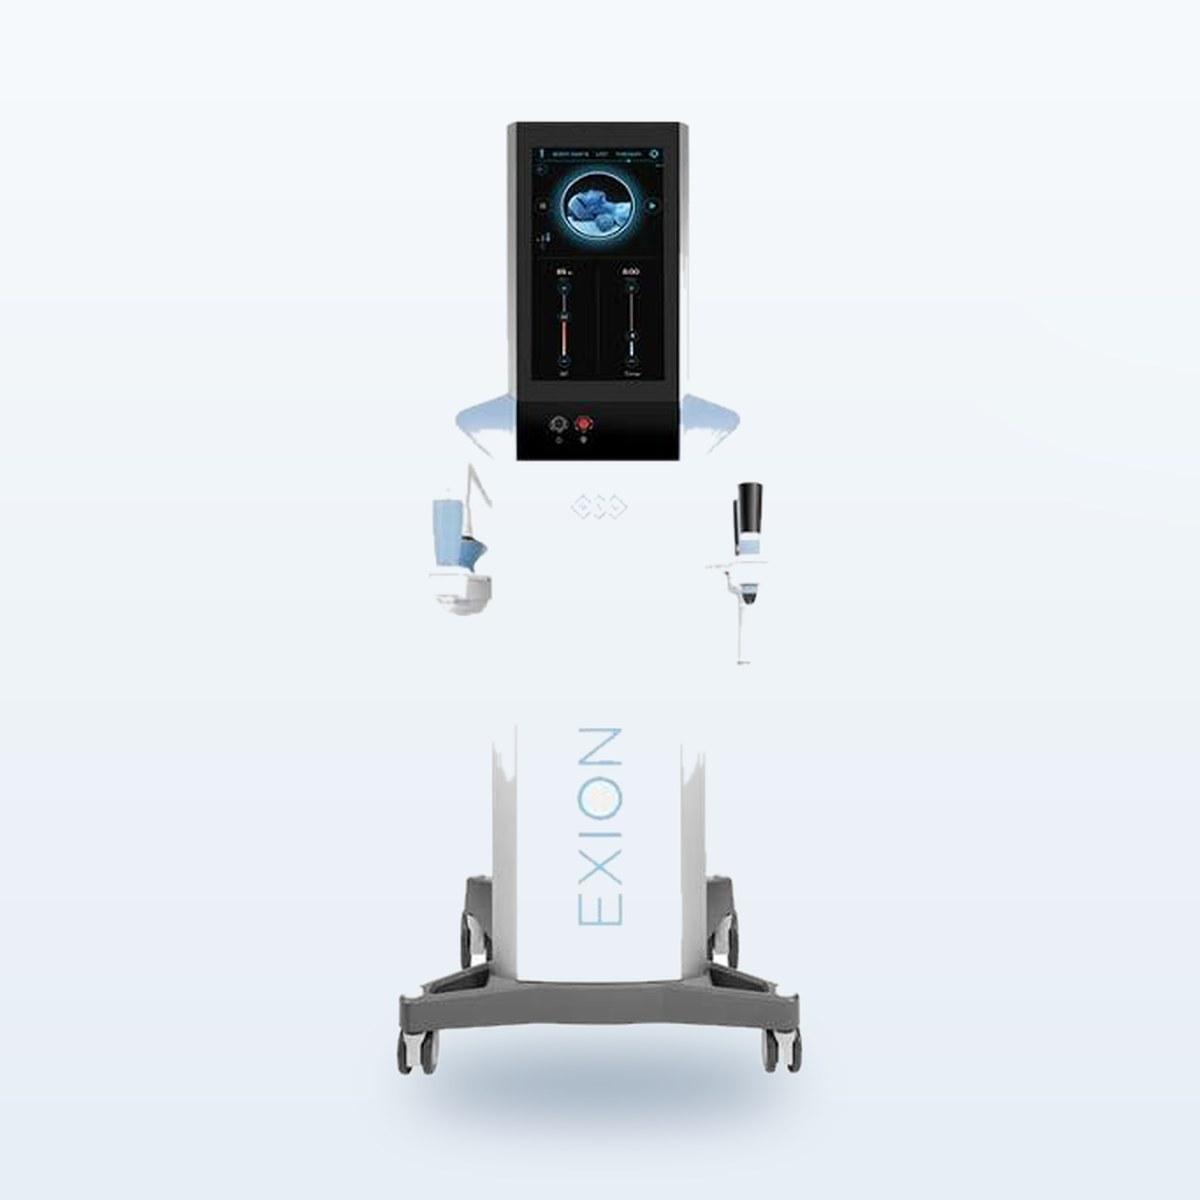
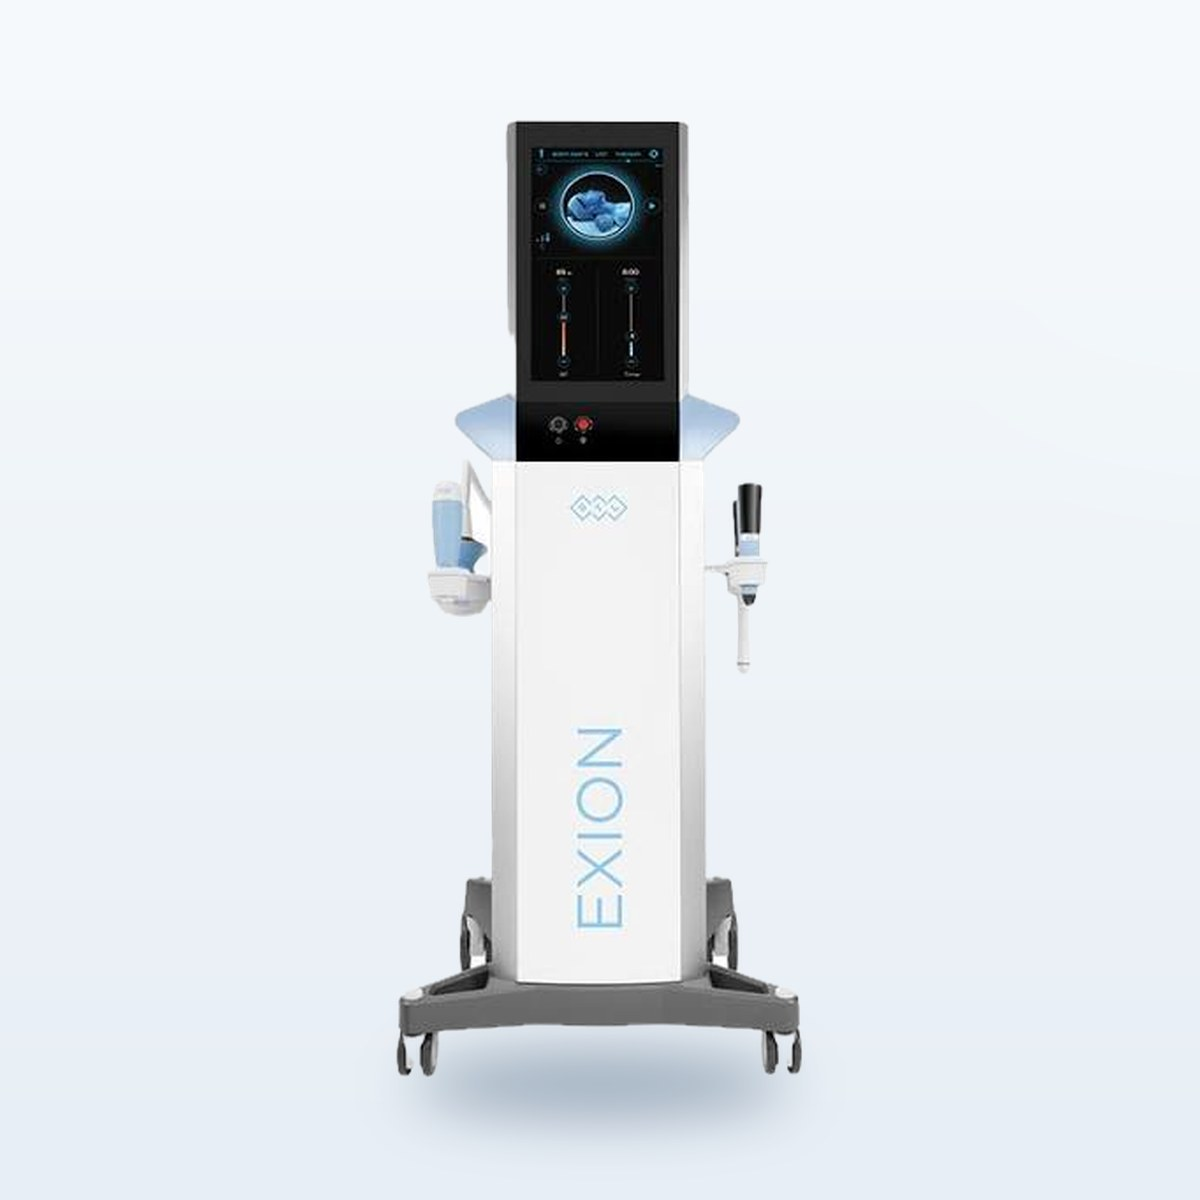
Use the supplied transparent artwork for BBL Hero, Exion and Sciton Moxi
Rebuilds those three device cards, plus the Exion in the hero offers
widget, from the client's transparent PNGs. Five of the six devices now
come from supplied alpha artwork; only Harmony XL still uses a flood-fill
cutout, as no transparent version exists for it.

Also drops hero-06-consultation.jpg from the hero slideshow, leaving six
slides. The file stays in the repo but is no longer referenced.

Claude-Session: https://claude.ai/code/session_01N7QZW48BeiyADQ2QtaFL6F

diff --git a/index.html b/index.html
@@ -89,7 +89,6 @@
     <div class="hero__slide is-on" style="--img:url('/assets/img/hero/hero-01-injectables.jpg');--pos:right center"></div>
     <div class="hero__slide" style="--img:url('/assets/img/hero/hero-03-examination.jpg');--pos:center"></div>
     <div class="hero__slide" style="--img:url('/assets/img/hero/hero-07-skinpen.jpg');--pos:center"></div>
-    <div class="hero__slide" style="--img:url('/assets/img/hero/hero-06-consultation.jpg');--pos:center"></div>
     <div class="hero__slide" style="--img:url('/assets/img/hero/hero-05-device.jpg');--pos:center"></div>
     <div class="hero__slide" style="--img:url('/assets/img/hero/hero-02-kleresca.jpg');--pos:right center"></div>
     <div class="hero__slide" style="--img:url('/assets/img/hero/hero-04-treatment.jpg');--pos:center"></div>
@@ -197,7 +196,7 @@
         <svg viewBox="0 0 24 24"><path d="M12 4v15M5 13l7 7 7-7"/></svg>
         Scroll to explore
       </span>
-      <span class="hero__count"><b id="heroNum">01</b> / 07 &nbsp;·&nbsp; Inside the clinic</span>
+      <span class="hero__count"><b id="heroNum">01</b> / 06 &nbsp;·&nbsp; Inside the clinic</span>
     </div>
   </div>
 </section>

diff --git a/docs/ASSET-MANIFEST.md b/docs/ASSET-MANIFEST.md
@@ -17,7 +17,7 @@ images are covered in section 4.
 
 ## 1. Real client assets in use
 
-### Hero slideshow — 7 images · `assets/img/hero/`
+### Hero slideshow — 6 images · `assets/img/hero/`
 The clinic's own photography, resized to 2400px and re-encoded (35 MB → 2.0 MB).
 
 | File | What it shows |
@@ -27,12 +27,12 @@ The clinic's own photography, resized to 2400px and re-encoded (35 MB → 2.0 MB
 | `hero-03-examination.jpg` | Dr Martin Wade examining a patient with loupes |
 | `hero-04-treatment.jpg` | Dr Wade treating a patient |
 | `hero-05-device.jpg` | Device-led treatment in a clinic room |
-| `hero-06-consultation.jpg` | Consultation with a hand mirror |
+| `hero-06-consultation.jpg` | Consultation with a hand mirror — **in the repo but not in use**, removed from the hero at the client's request |
 | `hero-07-skinpen.jpg` | SkinPen microneedling |
 
 A light cool grade (`saturate(.78) contrast(1.05) brightness(.94) hue-rotate(-6deg)`) pulls the
-mixed-source photography toward the brand palette without gutting it. Slides 1–7 also drive the
-About section and four of the five treatment-group cards.
+mixed-source photography toward the brand palette without gutting it. These photographs also
+drive the About section and four of the five treatment-group cards.
 
 ### Team — 7 portraits · `assets/img/team/`
 `team-martin-wade.jpg` · `team-inna.jpg` · `team-meriem-martins.jpg` · `team-flor-kent.jpg` ·
@@ -60,19 +60,17 @@ four tabs (Microneedling, HydraFacial, BBL Hero, Sciton Moxi) are built and wire
 in and remove the `<em>soon</em>` marker.
 
 ### Devices — 6 · `assets/img/devices/`
-The manufacturers' real product shots, composited onto **one shared set**: a cool off-white
-gradient cyclorama, navy plinth line, teal wash top-right and a matched contact shadow.
+Composited onto **one shared set**: a cool off-white gradient cyclorama, teal wash top-right and
+a matched contact shadow. No plinth rule.
 
-Backgrounds were removed by border-seeded flood fill and the devices re-lit and re-scaled
-consistently, so the hardware itself is untouched and still exactly the real device. Source
-files are retained alongside the composites.
+Five are built from the client's own transparent artwork — `BBL Hero transparent.png`,
+`BTL Exion transparent.png`, `Sciton Moxi Laser tramsparent.png`, `emsculpt trasnparent.png` and
+`Skin Xcell.webp` (which already ships with alpha). Only **Harmony XL** still uses a
+border-seeded flood-fill cutout, as no transparent version was supplied. The hardware itself is
+never redrawn — only relit and rescaled.
 
-> The brief asked for this to be done with Nano Banana Pro, and it was — all six were restyled
-> (job IDs on request). But this environment cannot download from the Higgsfield CDN, so those
-> versions could be neither inspected nor committed, and shipping regenerated medical hardware
-> I have never seen is a bad trade. The local composite achieves the same "one shared set"
-> result, is verifiable, and keeps the actual devices pixel-accurate. Say the word and I'll
-> swap in the AI versions instead.
+The hero offers widget uses the same artwork at full card height: `promo-emsculpt.png`,
+`promo-xcellaris.png` and `promo-exion.png`.
 
 ### Brand · `assets/img/brand/`
 `logo.png` (header + footer, inverted to white on dark) · `favicon.png` ·
